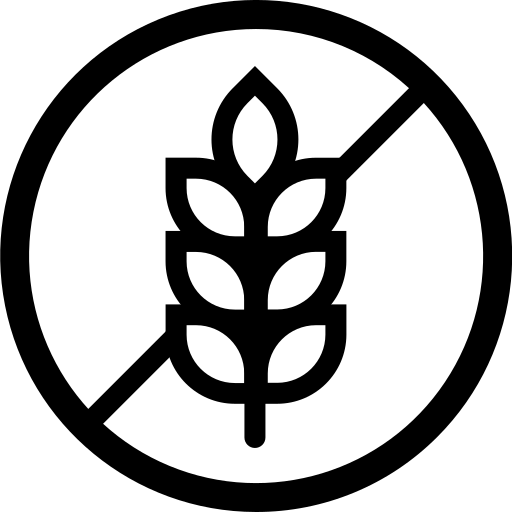
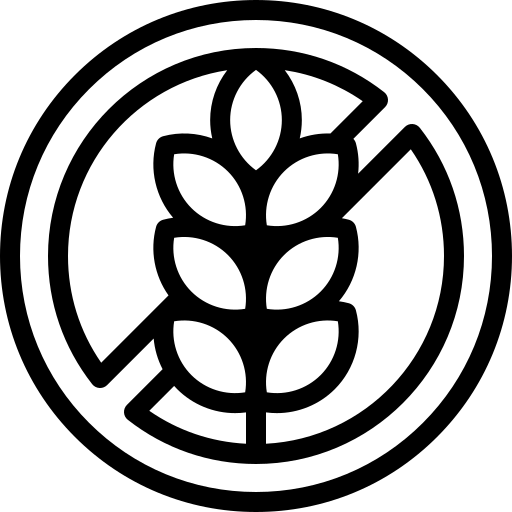
creacion de perfil de usuario

diff --git a/safebite-web/src/app/pages/perfil/perfil.component.css b/safebite-web/src/app/pages/perfil/perfil.component.css
@@ -1,0 +1,99 @@
+.perfil-container {
+    max-width: 1200px;
+    margin: 40px auto;
+    padding: 0 20px;
+    font-family: 'Poppins', sans-serif;
+}
+
+.perfil-header {
+    display: flex;
+    align-items: center;
+    gap: 30px;
+    background: white;
+    padding: 40px;
+    border-radius: 20px;
+    box-shadow: 0 10px 30px rgba(0, 0, 0, 0.05);
+}
+
+.user-big-avatar {
+    width: 100px;
+    height: 100px;
+    background: #4caf50;
+    color: white;
+    font-size: 3rem;
+    font-weight: bold;
+    border-radius: 50%;
+    display: flex;
+    align-items: center;
+    justify-content: center;
+}
+
+.user-meta h1 {
+    margin: 0;
+    font-size: 2rem;
+}
+
+.user-meta .email {
+    color: #666;
+    margin: 5px 0 15px 0;
+}
+
+.btn-edit {
+    background: transparent;
+    border: 1px solid #ddd;
+    padding: 8px 20px;
+    border-radius: 10px;
+    cursor: pointer;
+    font-weight: 600;
+}
+
+.separator {
+    margin: 40px 0;
+    border: 0;
+    border-top: 1px solid #eee;
+}
+
+.section-header {
+    display: flex;
+    justify-content: space-between;
+    align-items: center;
+    margin-bottom: 30px;
+}
+
+.btn-add {
+    background: #1a1a1a;
+    color: white;
+    border: none;
+    padding: 10px 25px;
+    border-radius: 12px;
+    font-weight: 600;
+    cursor: pointer;
+}
+
+.recetas-grid {
+    display: grid;
+    grid-template-columns: repeat(auto-fill, minmax(250px, 1fr));
+    gap: 30px;
+}
+
+.card-actions {
+    display: flex;
+    justify-content: center;
+    margin-top: 10px;
+}
+
+.btn-delete {
+    color: #ff7675;
+    background: none;
+    border: none;
+    font-weight: 600;
+    cursor: pointer;
+    font-size: 0.8rem;
+}
+
+.no-recetas {
+    text-align: center;
+    padding: 60px;
+    background: #f9f9f9;
+    border-radius: 20px;
+}

diff --git a/safebite-web/src/app/pages/perfil/perfil.component.html b/safebite-web/src/app/pages/perfil/perfil.component.html
@@ -1,0 +1,50 @@
+<div class="perfil-container">
+  @if (user$ | async; as user) {
+  <!-- Cabecera del Perfil -->
+  <header class="perfil-header">
+    <div class="user-big-avatar">
+      {{ user.email?.charAt(0)?.toUpperCase() }}
+    </div>
+    <div class="user-meta">
+      <h1>Mi Perfil</h1>
+      <p class="email">{{ user.email }}</p>
+      <button class="btn-edit">Editar Perfil</button>
+    </div>
+  </header>
+
+  <hr class="separator" />
+
+  <!-- Sección de Mis Recetas -->
+  <section class="mis-recetas">
+    <div class="section-header">
+      <h2>Mis Recetas Subidas</h2>
+      <button class="btn-add" routerLink="/subir">+ Nueva Receta</button>
+    </div>
+
+    @if (misRecetas$ | async; as recetas) { @if (recetas.length > 0) {
+    <div class="recetas-grid">
+      @for (receta of recetas; track receta.id) {
+      <div class="card-wrapper">
+        <app-recipe-card [receta]="receta"></app-recipe-card>
+        <!-- Botones de gestión para el dueño -->
+        <div class="card-actions">
+          <button class="btn-delete">Eliminar</button>
+        </div>
+      </div>
+      }
+    </div>
+    } @else {
+    <div class="no-recetas">
+      <p>Aún no has subido ninguna receta. ¡Comparte tu talento!</p>
+      <button routerLink="/subir">Subir mi primera receta</button>
+    </div>
+    } }
+  </section>
+
+  } @else {
+  <div class="acceso-denegado">
+    <p>Debes iniciar sesión para ver tu perfil.</p>
+    <button routerLink="/login">Ir al Login</button>
+  </div>
+  }
+</div>

diff --git a/safebite-web/src/app/components/header/header.component.html b/safebite-web/src/app/components/header/header.component.html
@@ -13,10 +13,13 @@
 
   <div class="auth-container">
     @if (user$ | async; as user) {
-      <!-- PERFIL DE USUARIO LOGUEADO -->
+    <!-- PERFIL DE USUARIO LOGUEADO -->
+    <div class="user-info" routerLink="/perfil" style="cursor: pointer">
       <div class="user-profile">
         <div class="user-info">
-          <div class="user-avatar">{{ user.email?.charAt(0)?.toUpperCase() }}</div>
+          <div class="user-avatar">
+            {{ user.email?.charAt(0)?.toUpperCase() }}
+          </div>
           <div class="user-details">
             <span class="user-welcome">Hola,</span>
             <span class="user-name">{{ user.email?.split('@')?.[0] }}</span>
@@ -24,10 +27,19 @@
         </div>
         <button (click)="logout()" class="btn-salir">Salir</button>
       </div>
+    </div>
     } @else {
-      <!-- BOTONES DE REGISTRO/LOGIN -->
-      <app-auth-button label="Inicia Sesión" type="secondary" routerLink="/login"></app-auth-button>
-      <app-auth-button label="Regístrate" type="primary" routerLink="/register"></app-auth-button>
+    <!-- BOTONES DE REGISTRO/LOGIN -->
+    <app-auth-button
+      label="Inicia Sesión"
+      type="secondary"
+      routerLink="/login"
+    ></app-auth-button>
+    <app-auth-button
+      label="Regístrate"
+      type="primary"
+      routerLink="/register"
+    ></app-auth-button>
     }
   </div>
 </header>

diff --git a/safebite-web/src/app/pages/perfil/perfil.component.ts b/safebite-web/src/app/pages/perfil/perfil.component.ts
@@ -1,0 +1,35 @@
+import { Component, inject, OnInit } from '@angular/core';
+import { CommonModule, AsyncPipe } from '@angular/common';
+import { AuthService } from '../../services/auth.service';
+import { RecetasService } from '../../services/recetas.service';
+import { Observable, switchMap, of } from 'rxjs';
+import { RecipeCardComponent } from '../recipe-card/recipe-card.component';
+import { Receta } from '../../models/receta';
+
+@Component({
+  selector: 'app-perfil',
+  standalone: true,
+  imports: [CommonModule, RecipeCardComponent],
+  templateUrl: './perfil.component.html',
+  styleUrl: './perfil.component.css'
+})
+export class PerfilComponent implements OnInit {
+  authService = inject(AuthService);
+  recetasService = inject(RecetasService);
+
+  user$ = this.authService.user$;
+  misRecetas$!: Observable<Receta[]>;
+
+  ngOnInit() {
+    // Esta lógica es avanzada: espera a que haya usuario y entonces busca sus recetas
+    this.misRecetas$ = this.user$.pipe(
+      switchMap(user => {
+        if (user) {
+          return this.recetasService.getRecetasPorUsuario(user.uid);
+        } else {
+          return of([]); // Si no hay usuario, devolvemos lista vacía
+        }
+      })
+    );
+  }
+}

diff --git a/safebite-web/src/app/app.routes.ts b/safebite-web/src/app/app.routes.ts
@@ -1,9 +1,10 @@
 import { Routes } from '@angular/router';
+import { PerfilComponent } from './pages/perfil/perfil.component'; // Importalo
+import { HeroComponent } from './pages/hero/hero.component';
 import { RecetasComponent } from './pages/recetas/recetas.component';
+import { RecetaDetalleComponent } from './pages/receta-detalle/receta-detalle.component';
 import { LoginComponent } from './pages/login/login.component';
 import { RegisterComponent } from './pages/register/register.component';
-import { RecetaDetalleComponent } from './pages/receta-detalle/receta-detalle.component';
-import { HeroComponent } from './pages/hero/hero.component';
 
 export const routes: Routes = [
   { path: '', component: HeroComponent },
@@ -11,5 +12,6 @@ export const routes: Routes = [
   { path: 'receta/:id', component: RecetaDetalleComponent },
   { path: 'login', component: LoginComponent },
   { path: 'register', component: RegisterComponent },
+  { path: 'perfil', component: PerfilComponent }, // <--- AÑADE ESTA LÍNEA
   { path: '**', redirectTo: '' }
 ];

diff --git a/safebite-web/src/app/services/recetas.service.ts b/safebite-web/src/app/services/recetas.service.ts
@@ -1,5 +1,5 @@
 import { Injectable, inject } from '@angular/core';
-import { Firestore, collection, collectionData, doc, docData } from '@angular/fire/firestore';
+import { Firestore, collection, collectionData, doc, docData, query, where } from '@angular/fire/firestore';
 import { Observable } from 'rxjs';
 import { Receta } from '../models/receta';
 
@@ -16,5 +16,11 @@ export class RecetasService {
   getRecetaById(id: string): Observable<Receta> {
     const ref = doc(this.firestore, `recetas/${id}`);
     return docData(ref, { idField: 'id' }) as Observable<Receta>;
+  }
+
+  getRecetasPorUsuario(userId: string): Observable<Receta[]> {
+    const recetasRef = collection(this.firestore, 'recetas');
+    const q = query(recetasRef, where('autor_id', '==', userId));
+    return collectionData(q, { idField: 'id' }) as Observable<Receta[]>;
   }
 }

diff --git a/safebite-web/src/app/pages/register/register.component.ts b/safebite-web/src/app/pages/register/register.component.ts
@@ -6,6 +6,8 @@ import { AuthService } from '../../services/auth.service';
 import { Observable } from 'rxjs';
 import { User } from '@angular/fire/auth';
 import Swal from 'sweetalert2';
+import { collection, collectionData, query, where } from '@angular/fire/firestore';
+import { Receta } from '../../models/receta';
 
 @Component({
   standalone: true,
@@ -33,8 +35,10 @@ export class RegisterComponent {
       await this.authService.register(email, password);
       Swal.fire('¡Éxito!', 'Cuenta creada correctamente', 'success');
       this.router.navigateByUrl('/recetas');
+      console.log('Captcha verificado y registro en marcha');
     } catch (e) {
       Swal.fire('Error', 'No se ha podido crear la cuenta', 'error');
+      console.error(e);
     }
   }
 }

diff --git a/safebite-web/src/app/pages/perfil/perfil.component.spec.ts b/safebite-web/src/app/pages/perfil/perfil.component.spec.ts
@@ -1,0 +1,23 @@
+import { ComponentFixture, TestBed } from '@angular/core/testing';
+
+import { PerfilComponent } from './perfil.component';
+
+describe('PerfilComponent', () => {
+  let component: PerfilComponent;
+  let fixture: ComponentFixture<PerfilComponent>;
+
+  beforeEach(async () => {
+    await TestBed.configureTestingModule({
+      imports: [PerfilComponent]
+    })
+    .compileComponents();
+
+    fixture = TestBed.createComponent(PerfilComponent);
+    component = fixture.componentInstance;
+    fixture.detectChanges();
+  });
+
+  it('should create', () => {
+    expect(component).toBeTruthy();
+  });
+});
